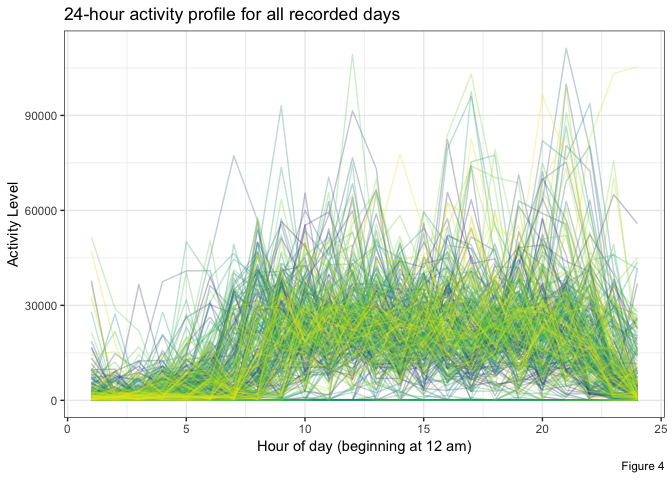
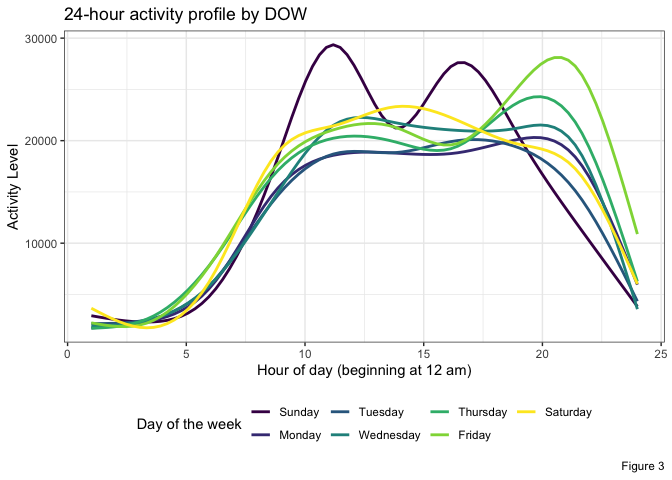
edited/added plots

diff --git a/p8105_mtp_amv2187.md b/p8105_mtp_amv2187.md
@@ -97,7 +97,7 @@ agg_days %>%
 
 ![](p8105_mtp_amv2187_files/figure-markdown_github/unnamed-chunk-2-1.png)
 
-Since we also have informatin on the day of the week, we can test the hypothesis that day of the week can also predict activity level. However, an ANOVA test suggests that there is little evidence to suggest a correlation; that is, that the average activity level varies by day of the week (Figure 2a). This holds true when accounting for time (Figure 2b), but note the time itself remained a significant predictor of activity level. Though, interestingly, Saturday goes from being, on average, the least active day of the week to the most active by the end of the study period.
+Since we also have information on the day of the week (DOW), we can test the hypothesis that DOW can also predict activity level. However, an ANOVA test suggests that there is little evidence to suggest a correlation; that is, that the average activity level varies by DOW (Figure 2a). This holds true when accounting for time (Figure 2b), and it may be noted that time itself remains a significant predictor of activity level. Interestingly, Saturday goes from being, on average, the least active DOW to the most active by the end of the study period.
 
 ``` r
 # ANOVA testing relationship between activity level and day of the week
@@ -173,26 +173,74 @@ I examined the distribution of activity by week, day of the week, and hour of da
 
 ``` r
 # daily 24-hour activity profile (spaghetti plot)
+#hourly = 
 accel_data %>%
   group_by(week, day, hour) %>% # group by week, day, and hour
   summarise(total_activity_hr = sum(activity_level)) %>% # get total activity for each hour of every day
   ungroup %>%
   mutate(day_over_time = ceiling(row_number()/24)) %>% # variable to group by day 1:329
-  ggplot(aes(y = total_activity_hr, x = hour, group = day_over_time, 
-             color = day_over_time)) +
+  ggplot(aes(y = total_activity_hr, x = hour, group = day_over_time)) +
   geom_line(alpha = 0.3) +
   labs(
     title = '24-hour activity profile for all recorded days',
     x = 'Hour of day (beginning at 12 am)',
     y = 'Activity Level',
-    caption = 'Figure 3',
     color = 'Time (days)'
   ) + 
-  theme(legend.position = 'none') +
-  viridis::scale_color_viridis()
+  theme(legend.position = 'none')
 ```
 
 ![](p8105_mtp_amv2187_files/figure-markdown_github/unnamed-chunk-4-1.png)
+
+``` r
+# smoothed 24-hour trends for each day of the week
+#hourly_DOW = 
+accel_data %>%
+  group_by(week, day, hour) %>% # group by week, day, and hour
+  summarise(total_activity_hr = sum(activity_level)) %>% # get total activity for each hour of every day
+  ungroup %>%
+  mutate(day_over_time = ceiling(row_number()/24)) %>% # variable to group by day 1:329
+  group_by(day) %>%
+  ggplot(aes(y = total_activity_hr, x = hour, group = day, 
+             color = day)) +
+  geom_smooth(se = F) +
+  labs(
+    title = '24-hour activity profile by DOW',
+    x = 'Hour of day (beginning at 12 am)',
+    y = 'Activity Level',
+    caption = 'Figure 3',
+    color = 'Day of the week'
+  ) + 
+  theme(legend.position = 'bottom') +
+  viridis::scale_color_viridis(discrete = T)
+```
+
+    ## `geom_smooth()` using method = 'gam' and formula 'y ~ s(x, bs = "cs")'
+
+![](p8105_mtp_amv2187_files/figure-markdown_github/unnamed-chunk-4-2.png)
+
+``` r
+#hourly + hourly_DOW
+
+accel_data %>%
+  group_by(week, day, hour) %>% # group by week, day, and hour
+  summarise(total_activity_hr = sum(activity_level)) %>% # get total activity for each hour of every day
+  ungroup %>%
+  mutate(day_over_time = ceiling(row_number()/24)) %>% # variable to group by day 1:329
+  ggplot(aes(x = day_over_time, y = hour)) +
+  geom_point(aes(size = total_activity_hr), alpha = 0.2) +
+  labs(
+    title = 'Hourly activity level over time',
+    y = 'Hour of day (beginning at 12 am)',
+    x = 'Time (days)',
+    #caption = 'Figure 4',
+    size = 'Activity level'
+  ) + 
+  theme(legend.position = 'bottom') +
+  viridis::scale_color_viridis(discrete = T)
+```
+
+![](p8105_mtp_amv2187_files/figure-markdown_github/unnamed-chunk-4-3.png)
 
 ``` r
 wordcountaddin::text_stats("p8105_mtp_amv2187.Rmd")
@@ -200,7 +248,7 @@ wordcountaddin::text_stats("p8105_mtp_amv2187.Rmd")
 
 | Method          | koRpus      | stringi       |
 |:----------------|:------------|:--------------|
-| Word count      | 511         | 502           |
-| Character count | 3000        | 2999          |
+| Word count      | 505         | 496           |
+| Character count | 2974        | 2973          |
 | Sentence count  | 26          | Not available |
-| Reading time    | 2.6 minutes | 2.5 minutes   |
+| Reading time    | 2.5 minutes | 2.5 minutes   |
